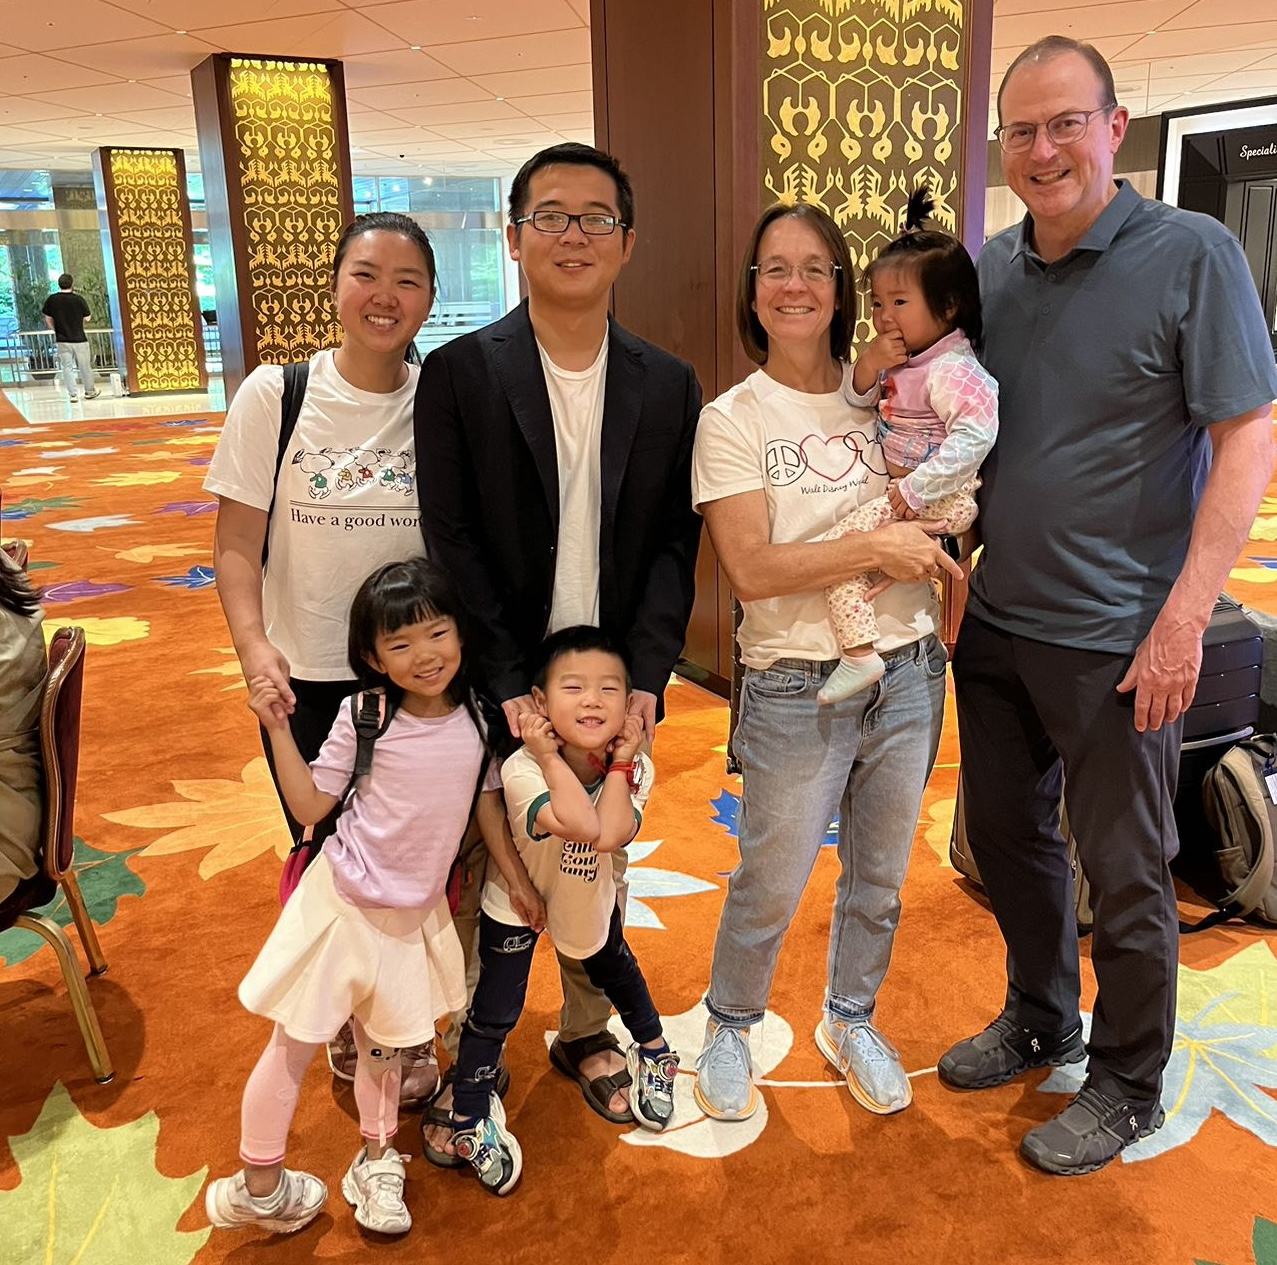
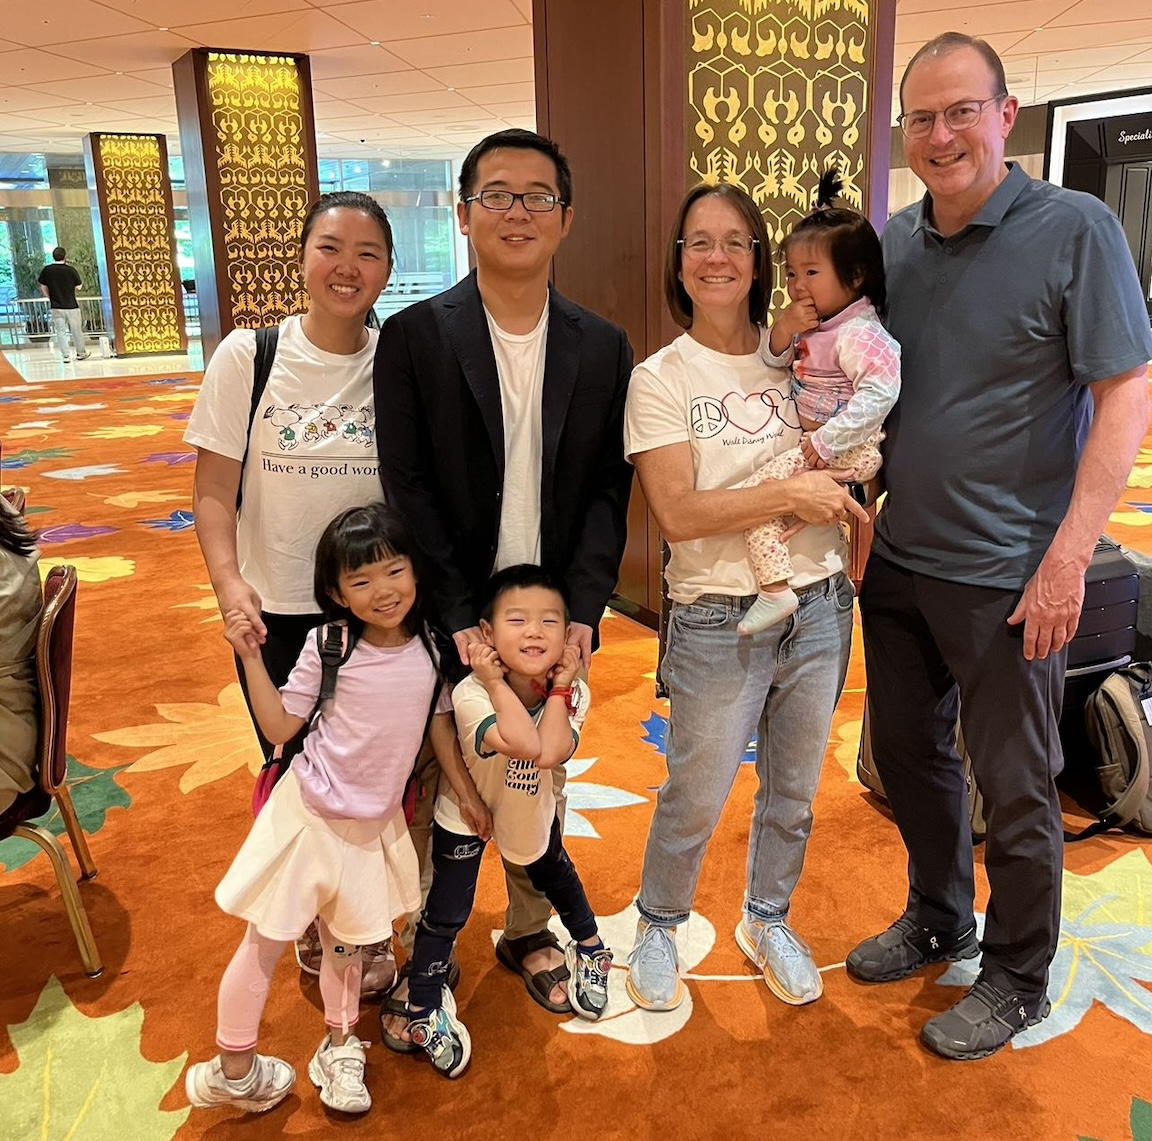
image

diff --git a/_pages/gallery.md b/_pages/gallery.md
@@ -39,7 +39,7 @@ permalink: /gallery/
   </tr>
   <tr>
     <td><img src="/images/gallery/clemson-graduation.jpg" alt="clemson-graduation" width="330"></td>
-    <td><img src="/images/gallery/conf-geoextreme.jpg" alt="conf-geoextreme" width="330"></td>
+    <td><img src="/images/gallery/geoextreme.jpg" alt="conf-geoextreme-" width="330"></td>
   </tr>
   <tr>
     <td><img src="/images/gallery/clemson-teach.jpg" alt="clemson-teach" width="330"></td>
